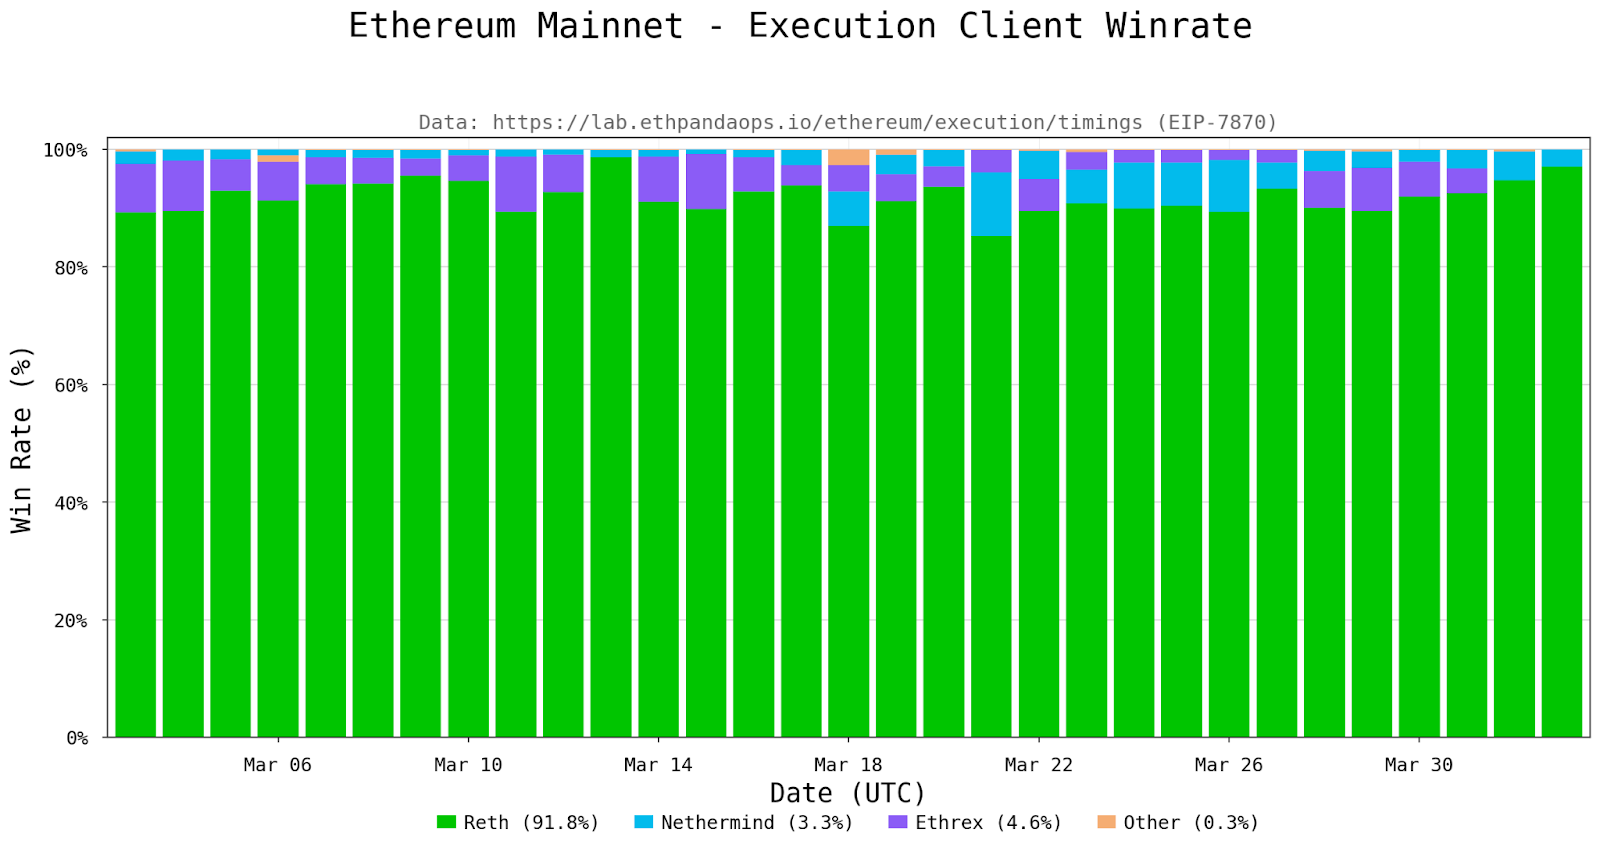
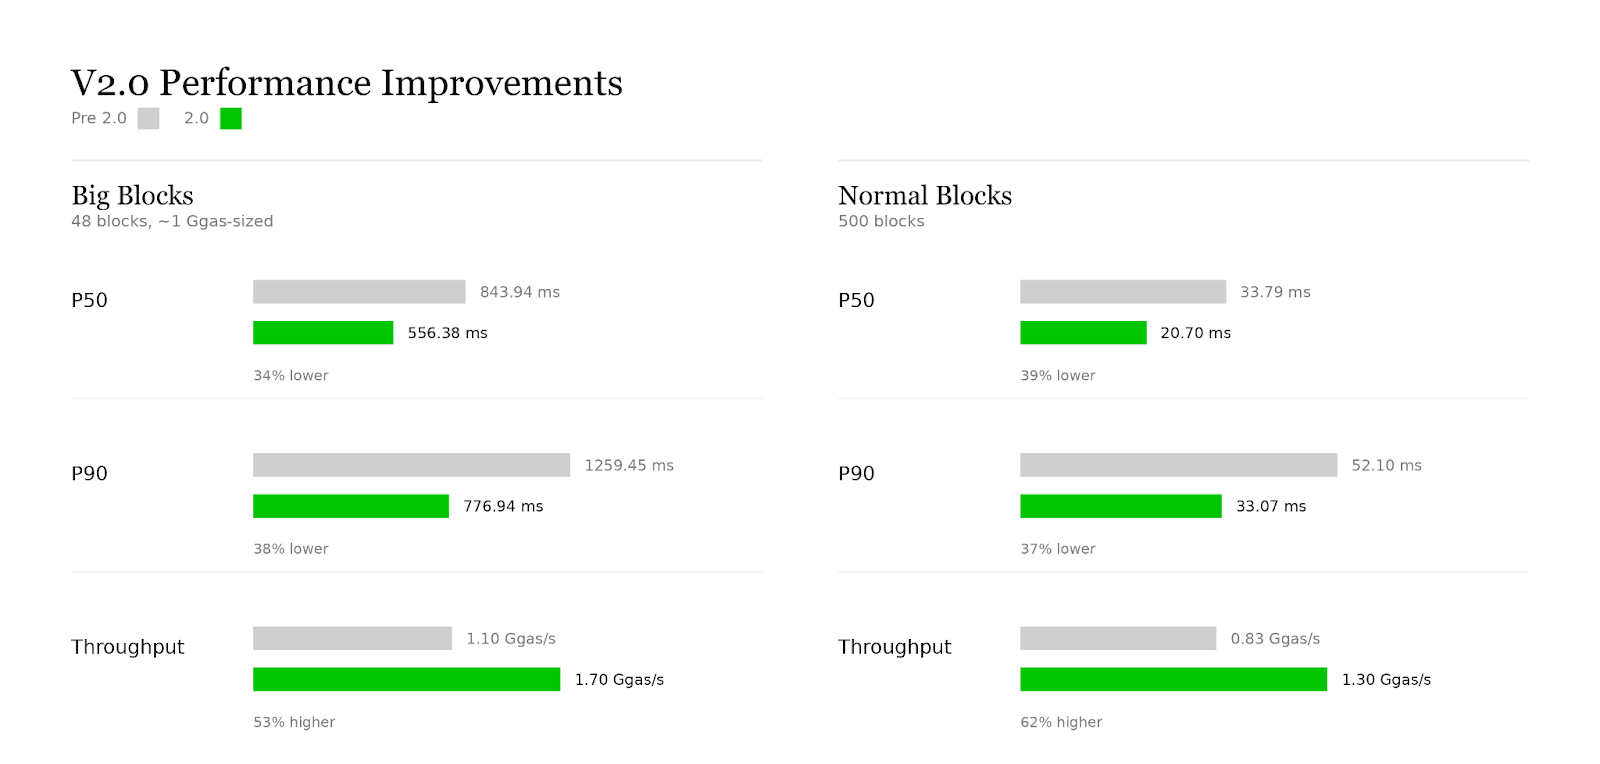
docs: add reth-bench perf chart and storage size comparison
Amp-Thread-ID: https://ampcode.com/threads/T-019d7282-ebda-7573-8a0c-2ff1799ed87e

diff --git a/README.md b/README.md
@@ -28,6 +28,7 @@ Reth (short for Rust Ethereum, [pronunciation](https://x.com/kelvinfichter/statu
 
 1. **Modularity**: Every component is built to be used as a library: well-tested, documented and benchmarked. Import crates, mix and match, and innovate on top of them. Learn more about the project's components [here](./docs/repo/layout.md).
 2. **Performance**: Built with Rust, [Alloy](https://github.com/alloy-rs/alloy/), [revm](https://github.com/bluealloy/revm/), and [Foundry](https://github.com/foundry-rs/foundry/) — battle-tested and optimized for speed. Check the [ethPandaOps Lab Dashboard](https://lab.ethpandaops.io/ethereum/execution/timings) for a third-party comparison against other Ethereum clients.
+Here's what that looks like in practice, measured with [reth-bench](https://github.com/paradigmxyz/reth/tree/main/bin/reth-bench) on Ethereum Mainnet:
 
 ![](./assets/reth-perf.png)
 
@@ -52,6 +53,8 @@ Reth is production ready, and suitable for usage in mission-critical environment
 ### Storage compatibility
 
 Storage V2 is the default for new nodes in Reth 2.0. Existing V1 nodes continue to work, but V1 support will be removed in a future release — all users are encouraged to migrate. V2 snapshots are available at [snapshots.reth.rs](https://snapshots.reth.rs/).
+
+![](./assets/reth-storage.png)
 
 ## For Users
 